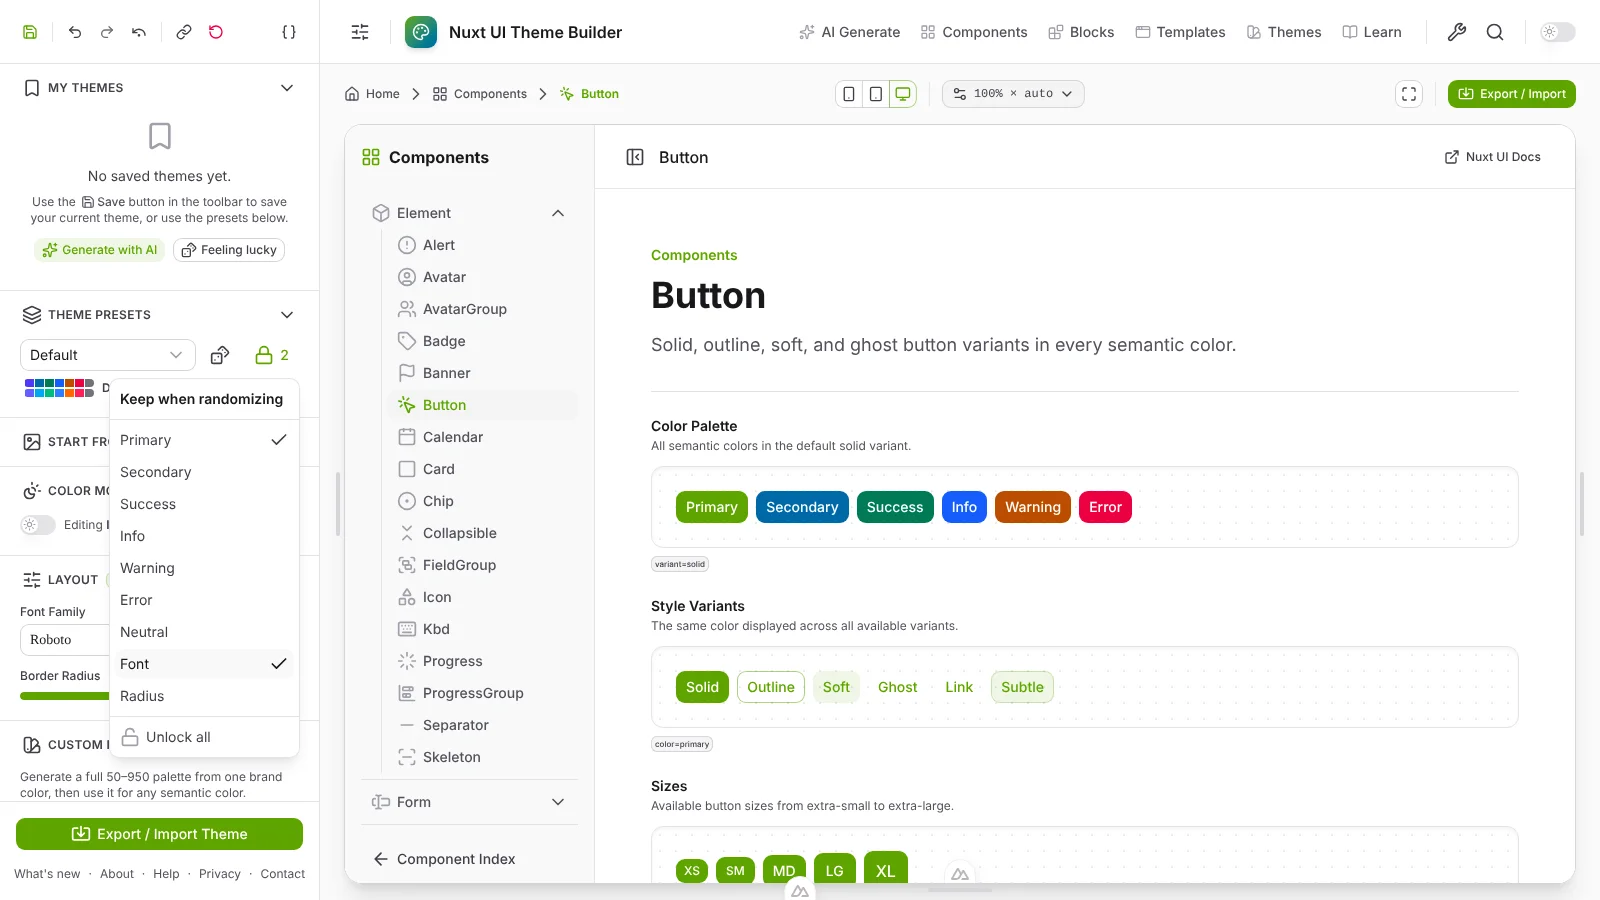
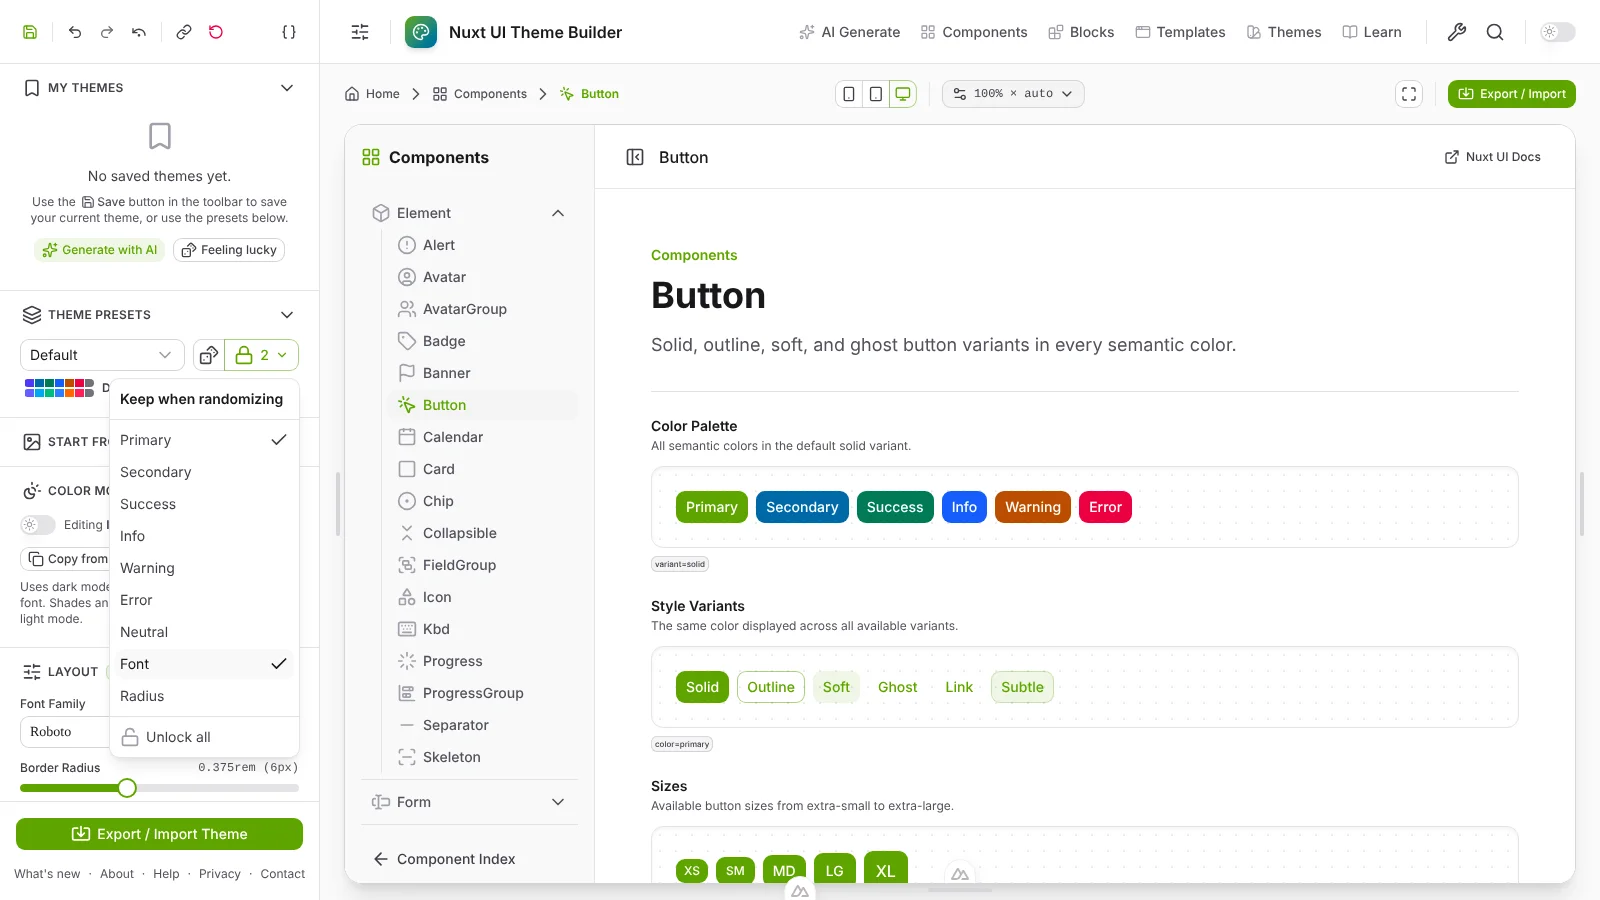
style(editor): group randomize and its locks into a split button
The dice and the lock menu now sit together in one button group: the
main half rolls a random theme and the lock half picks what to keep.

Claude-Session: https://claude.ai/code/session_01Eh9WV2nuRQXHFutRXX8xek

Changed region(s): [[0.0, 0.5911, 0.1875, 0.9022], [0.125, 0.3733, 0.1875, 0.4044]]

diff --git a/app/components/editor/RandomizeButton.vue b/app/components/editor/RandomizeButton.vue
@@ -4,7 +4,13 @@ import type { RandomizeLockKey } from "~/types/theme";
 import { RANDOMIZE_LOCK_KEYS } from "~/types/theme";
 import { capitalize } from "~/utils/helpers";
 
+/**
+ * Split button: the main half generates a random theme, the menu half
+ * chooses which parts of the current theme randomize keeps.
+ */
 const locks = defineModel<RandomizeLockKey[]>({ required: true });
+
+const emit = defineEmits<{ randomize: [] }>();
 
 function toggle(key: RandomizeLockKey) {
   locks.value = locks.value.includes(key)
@@ -34,7 +40,7 @@ const items = computed<DropdownMenuItem[][]>(() => [
   ],
 ]);
 
-const ariaLabel = computed(() =>
+const menuLabel = computed(() =>
   locks.value.length
     ? `Choose what randomize keeps (${locks.value.length} locked)`
     : "Choose what randomize keeps",
@@ -42,16 +48,30 @@ const ariaLabel = computed(() =>
 </script>
 
 <template>
-  <UDropdownMenu :items="items" :content="{ align: 'end' }">
-    <UTooltip text="Keep parts when randomizing">
+  <UFieldGroup role="group" aria-label="Random theme">
+    <UTooltip text="Generate random theme">
       <UButton
-        :icon="locks.length ? 'i-lucide-lock' : 'i-lucide-lock-open'"
-        :label="locks.length ? String(locks.length) : undefined"
-        :aria-label="ariaLabel"
-        :color="locks.length ? 'primary' : 'neutral'"
-        variant="ghost"
+        icon="i-lucide-dices"
+        aria-label="Generate random theme"
+        variant="outline"
+        color="neutral"
         size="md"
+        @click="emit('randomize')"
       />
     </UTooltip>
-  </UDropdownMenu>
+    <UDropdownMenu :items="items" :content="{ align: 'end' }">
+      <UTooltip text="Keep parts when randomizing">
+        <UButton
+          :icon="locks.length ? 'i-lucide-lock' : 'i-lucide-lock-open'"
+          :label="locks.length ? String(locks.length) : undefined"
+          trailing-icon="i-lucide-chevron-down"
+          :aria-label="menuLabel"
+          :color="locks.length ? 'primary' : 'neutral'"
+          variant="outline"
+          size="md"
+          :ui="{ trailingIcon: 'size-3.5' }"
+        />
+      </UTooltip>
+    </UDropdownMenu>
+  </UFieldGroup>
 </template>

diff --git a/tests/unit/components/editor/RandomizeButton.test.ts b/tests/unit/components/editor/RandomizeButton.test.ts
@@ -1,0 +1,47 @@
+import { describe, it, expect, vi } from "vitest";
+import { mountSuspended } from "@nuxt/test-utils/runtime";
+import App from "@nuxt/ui/runtime/components/App.vue";
+import RandomizeButton from "~/components/editor/RandomizeButton.vue";
+import type { RandomizeLockKey } from "~/types/theme";
+
+async function mount(modelValue: RandomizeLockKey[]) {
+  const randomize = vi.fn();
+  const Wrapper = defineComponent({
+    components: { NuxtUiApp: App as any, RandomizeButton: RandomizeButton as any },
+    setup: () => ({ modelValue, randomize }),
+    template: `<NuxtUiApp><RandomizeButton :model-value="modelValue" @randomize="randomize" /></NuxtUiApp>`,
+  });
+  const wrapper = await mountSuspended(Wrapper as any);
+  return { wrapper, randomize };
+}
+
+describe("EditorRandomizeButton", () => {
+  it("groups the randomize and lock buttons together", async () => {
+    const { wrapper } = await mount([]);
+    const group = wrapper.find('[role="group"][aria-label="Random theme"]');
+    expect(group.exists()).toBe(true);
+    expect(
+      group.find('button[aria-label="Generate random theme"]').exists(),
+    ).toBe(true);
+    expect(
+      group.find('button[aria-label="Choose what randomize keeps"]').exists(),
+    ).toBe(true);
+  });
+
+  it("emits randomize from the main half", async () => {
+    const { wrapper, randomize } = await mount([]);
+    await wrapper
+      .find('button[aria-label="Generate random theme"]')
+      .trigger("click");
+    expect(randomize).toHaveBeenCalledOnce();
+  });
+
+  it("shows how many parts are locked", async () => {
+    const { wrapper } = await mount(["primary", "font"]);
+    const button = wrapper.find(
+      'button[aria-label="Choose what randomize keeps (2 locked)"]',
+    );
+    expect(button.exists()).toBe(true);
+    expect(button.text()).toBe("2");
+  });
+});

diff --git a/app/components/editor/preset/Selector.vue b/app/components/editor/preset/Selector.vue
@@ -176,18 +176,11 @@ function onPresetSelect(name: string) {
         </template>
       </USelectMenu>
 
-      <!-- Random theme -->
-      <UTooltip text="Generate random theme">
-        <UButton
-          icon="i-lucide-dices"
-          aria-label="Generate random theme"
-          variant="ghost"
-          color="neutral"
-          size="md"
-          @click="store.randomizeTheme()"
-        />
-      </UTooltip>
-      <EditorRandomizeLocks v-model="store.randomizeLocks" />
+      <!-- Random theme, with locks for the parts to keep -->
+      <EditorRandomizeButton
+        v-model="store.randomizeLocks"
+        @randomize="store.randomizeTheme()"
+      />
     </div>
 
     <!-- Selected preset swatch preview below (only when preset selected and no saved theme active) -->

diff --git a/content/changelog/2026-10-19-randomize-locks.md b/content/changelog/2026-10-19-randomize-locks.md
@@ -8,6 +8,6 @@ image:
   alt: The Keep when randomizing menu with Primary and Font ticked
 ---
 
-Random themes are a fast way to find new combinations, but until now each roll replaced everything, including the brand color you'd already settled on. A new **lock** menu next to the dice button in **Theme Presets** lets you choose what randomize keeps.
+Random themes are a fast way to find new combinations, but until now each roll replaced everything, including the brand color you'd already settled on. The random theme button in **Theme Presets** is now a split button: the dice half rolls a new theme, and the **lock** half opens a menu where you choose what randomize keeps.
 
-Tick any semantic color (primary, secondary, success, info, warning, error), the neutral, the font, or the radius. A locked color keeps its palette and its shades in both light and dark mode, and everything else is shuffled as usual. The lock button shows how many parts are locked, and **Unlock all** clears them in one click. Each roll can be undone like any other change.
+Tick any semantic color (primary, secondary, success, info, warning, error), the neutral, the font, or the radius. A locked color keeps its palette and its shades in both light and dark mode, and everything else is shuffled as usual. The lock half shows how many parts are locked, and **Unlock all** clears them in one click. Each roll can be undone like any other change.

diff --git a/app/data/help.md b/app/data/help.md
@@ -170,7 +170,7 @@ Presets are a starting point, not a ceiling. Once loaded, change any token you l
 
 ### Random Themes
 
-The **dice** button next to the presets dropdown builds a random theme. To keep part of your current theme, open the **lock** menu beside it and tick what randomize should leave alone: any semantic color, the neutral, the font, or the radius. A locked color keeps its palette and shades in both light and dark mode. The button shows how many parts are locked, and **Unlock all** clears them. Locks also apply to **Feeling lucky**, and they reset when you reload the page.
+The split button next to the presets dropdown builds a random theme. Click its **dice** half to roll. To keep part of your current theme, open its **lock** half and tick what randomize should leave alone: any semantic color, the neutral, the font, or the radius. A locked color keeps its palette and shades in both light and dark mode. The button shows how many parts are locked, and **Unlock all** clears them. Locks also apply to **Feeling lucky**, and they reset when you reload the page.
 
 ---
 
